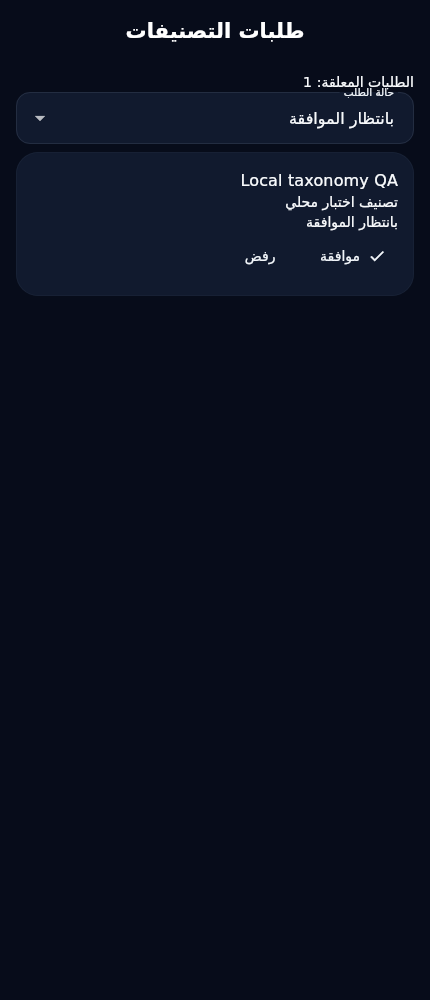
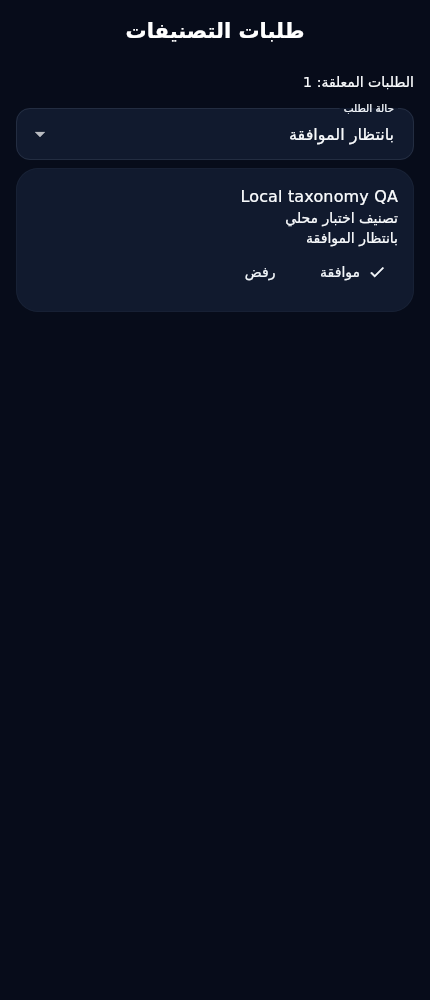
style(admin): separate category status label from pending count

Changed region(s): [[0.5744, 0.093, 0.9372, 0.279], [0.5744, 0.248, 0.6349, 0.279]]

diff --git a/lib/features/treatments/presentation/category_requests_screen.dart b/lib/features/treatments/presentation/category_requests_screen.dart
@@ -198,6 +198,7 @@ class _CategoryRequestsScreenState extends State<CategoryRequestsScreen> {
                                   'اختر بانتظار الموافقة للتحديث',
                                 )),
                     ),
+                    const SizedBox(height: 16),
                     DropdownButtonFormField<String>(
                       initialValue: _status,
                       decoration: InputDecoration(
